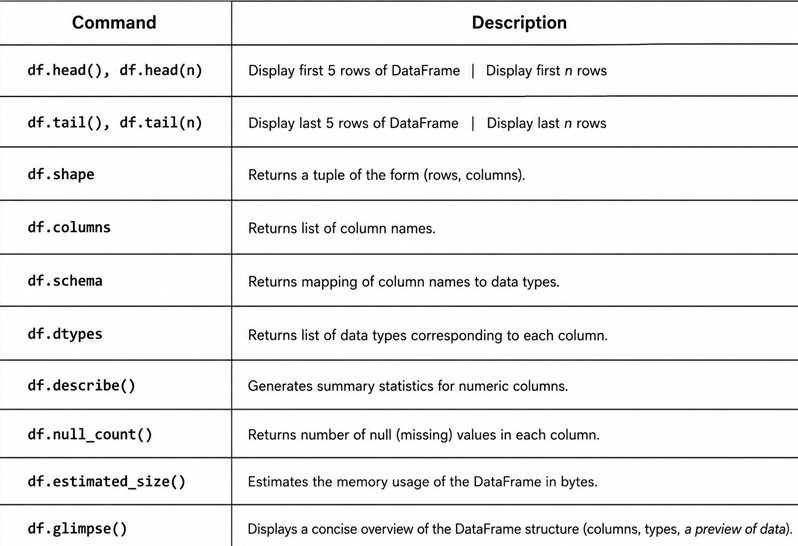
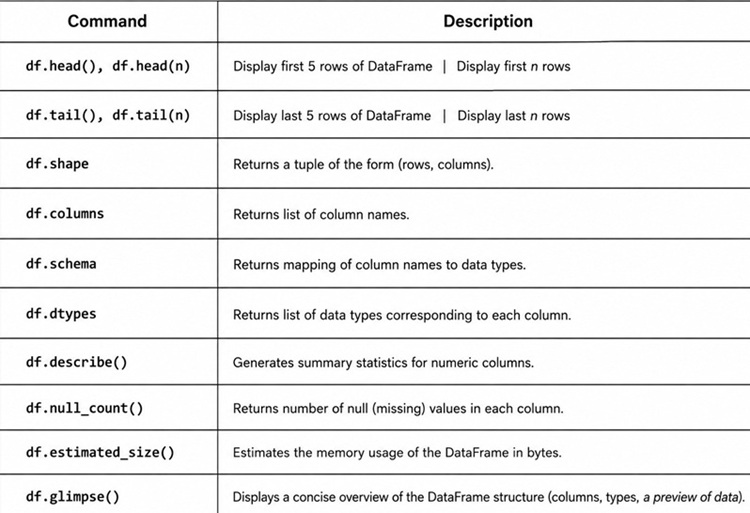
tiny tweaks

diff --git a/inspect_data_frames/README.rst b/inspect_data_frames/README.rst
@@ -28,7 +28,7 @@ You can think of it as a table of data, with columns (each of a specific type) a
 Unlike pandas, Polars does not have an implicit index; all data is stored in columns, and if you want an “index,” you create it explicitly. Each column is a `polars.Series`.
 Polars is designed for high-performance and parallel computation, making it especially fast on large datasets.
 
-.. figure:: dataframe.svg
+.. figure:: dataframe.png
 
 ----
 
